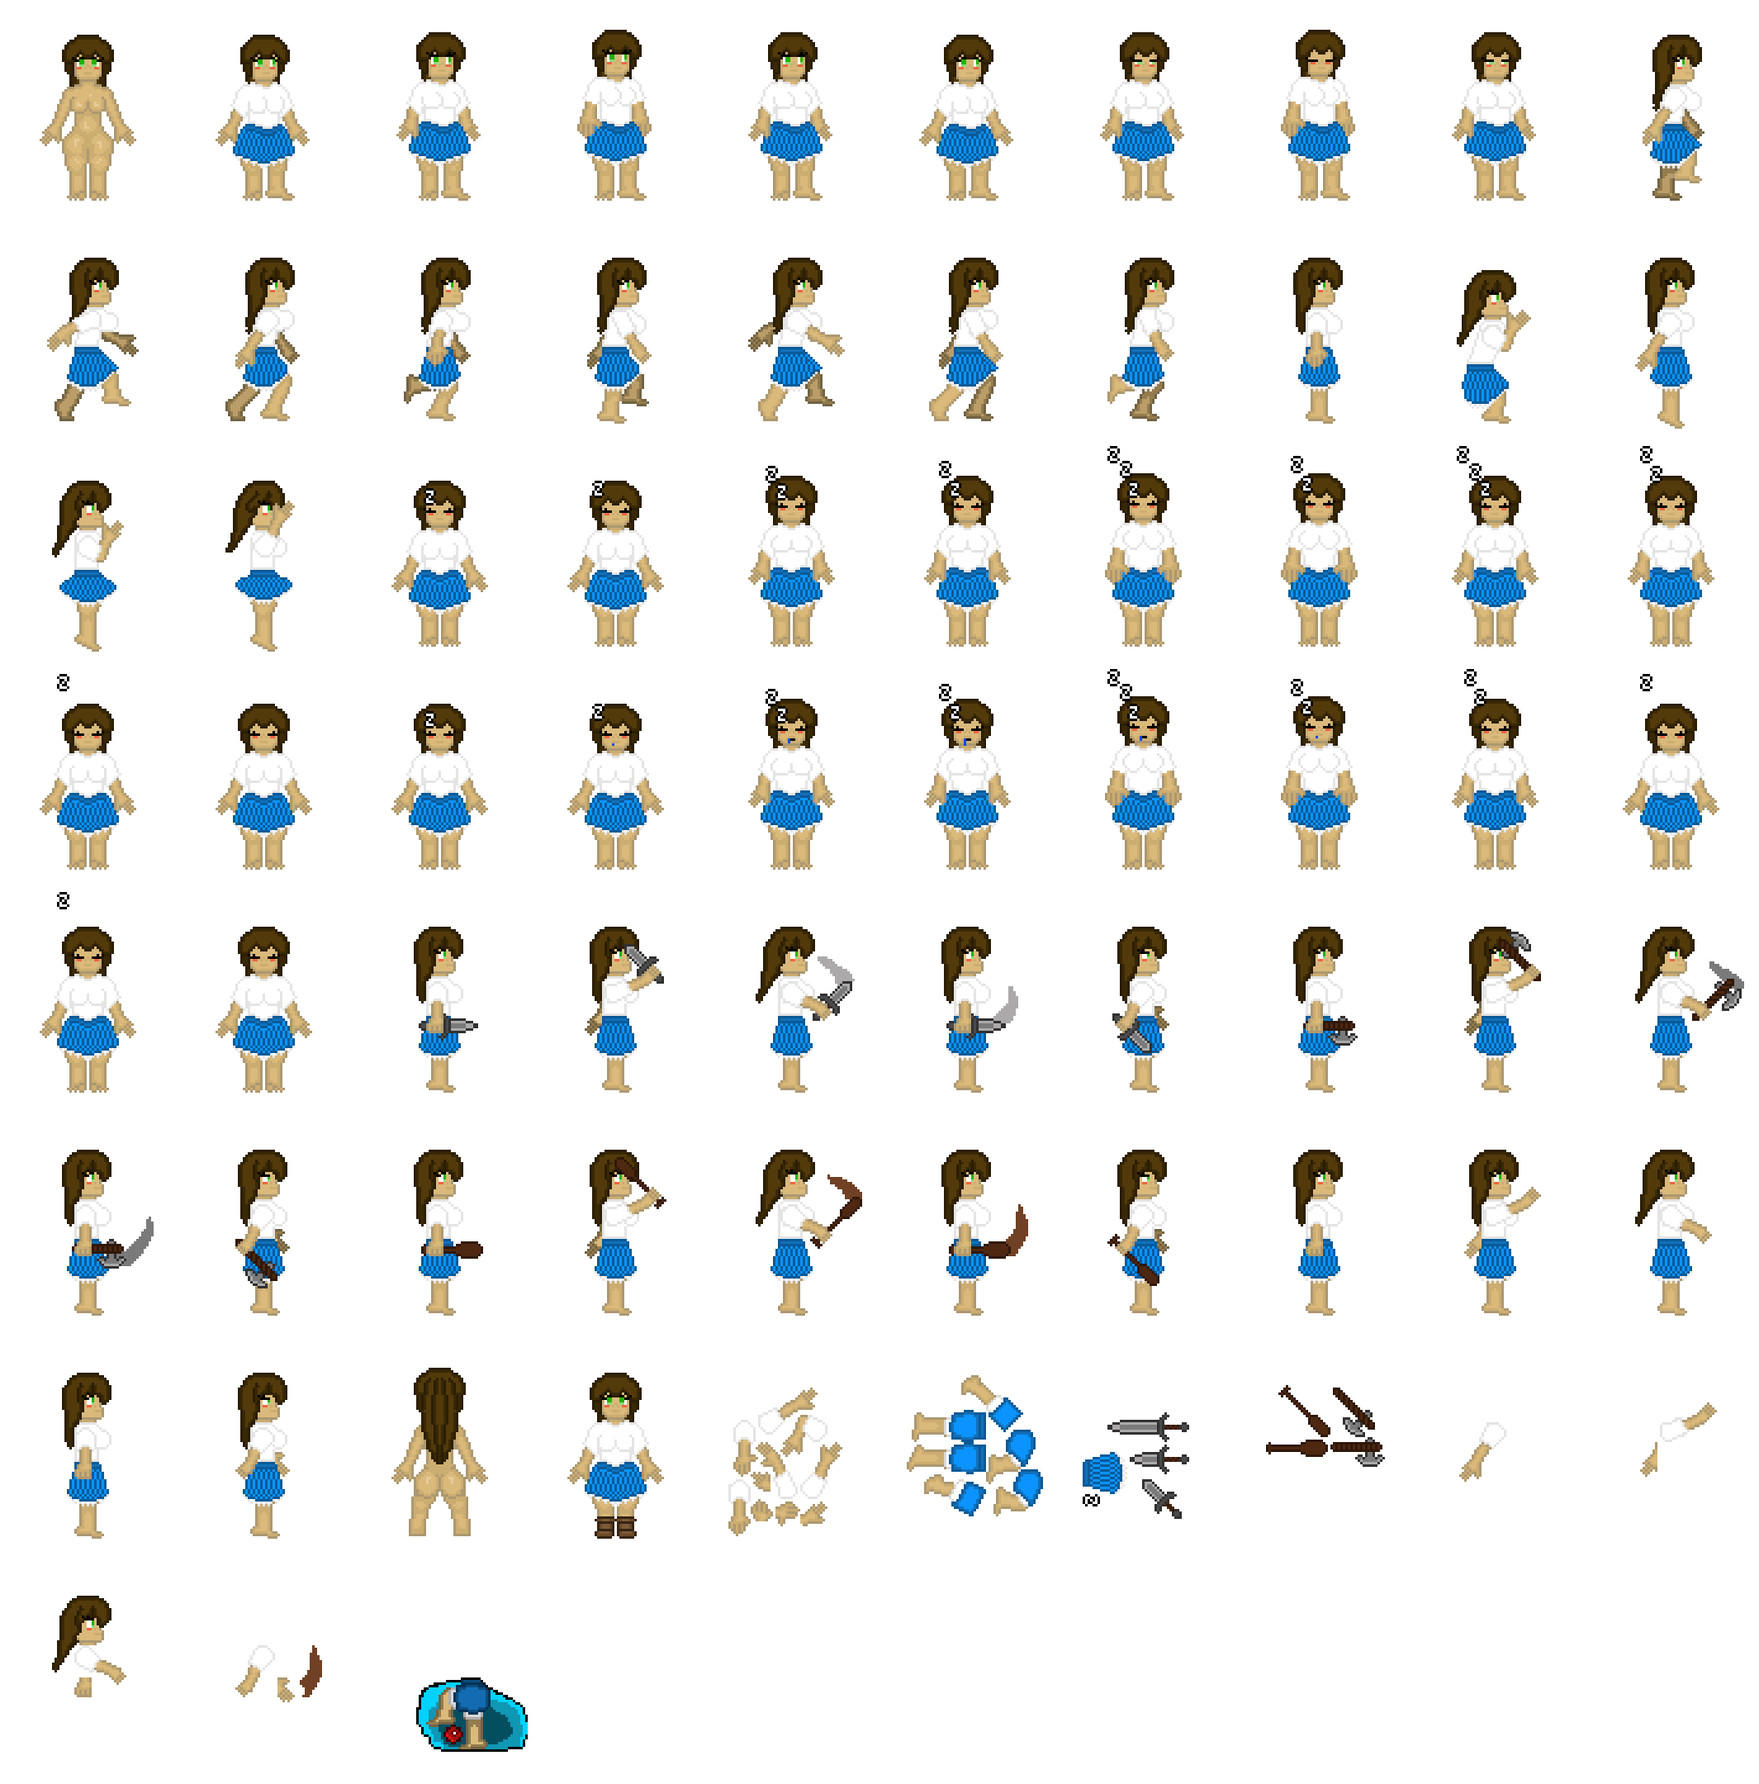
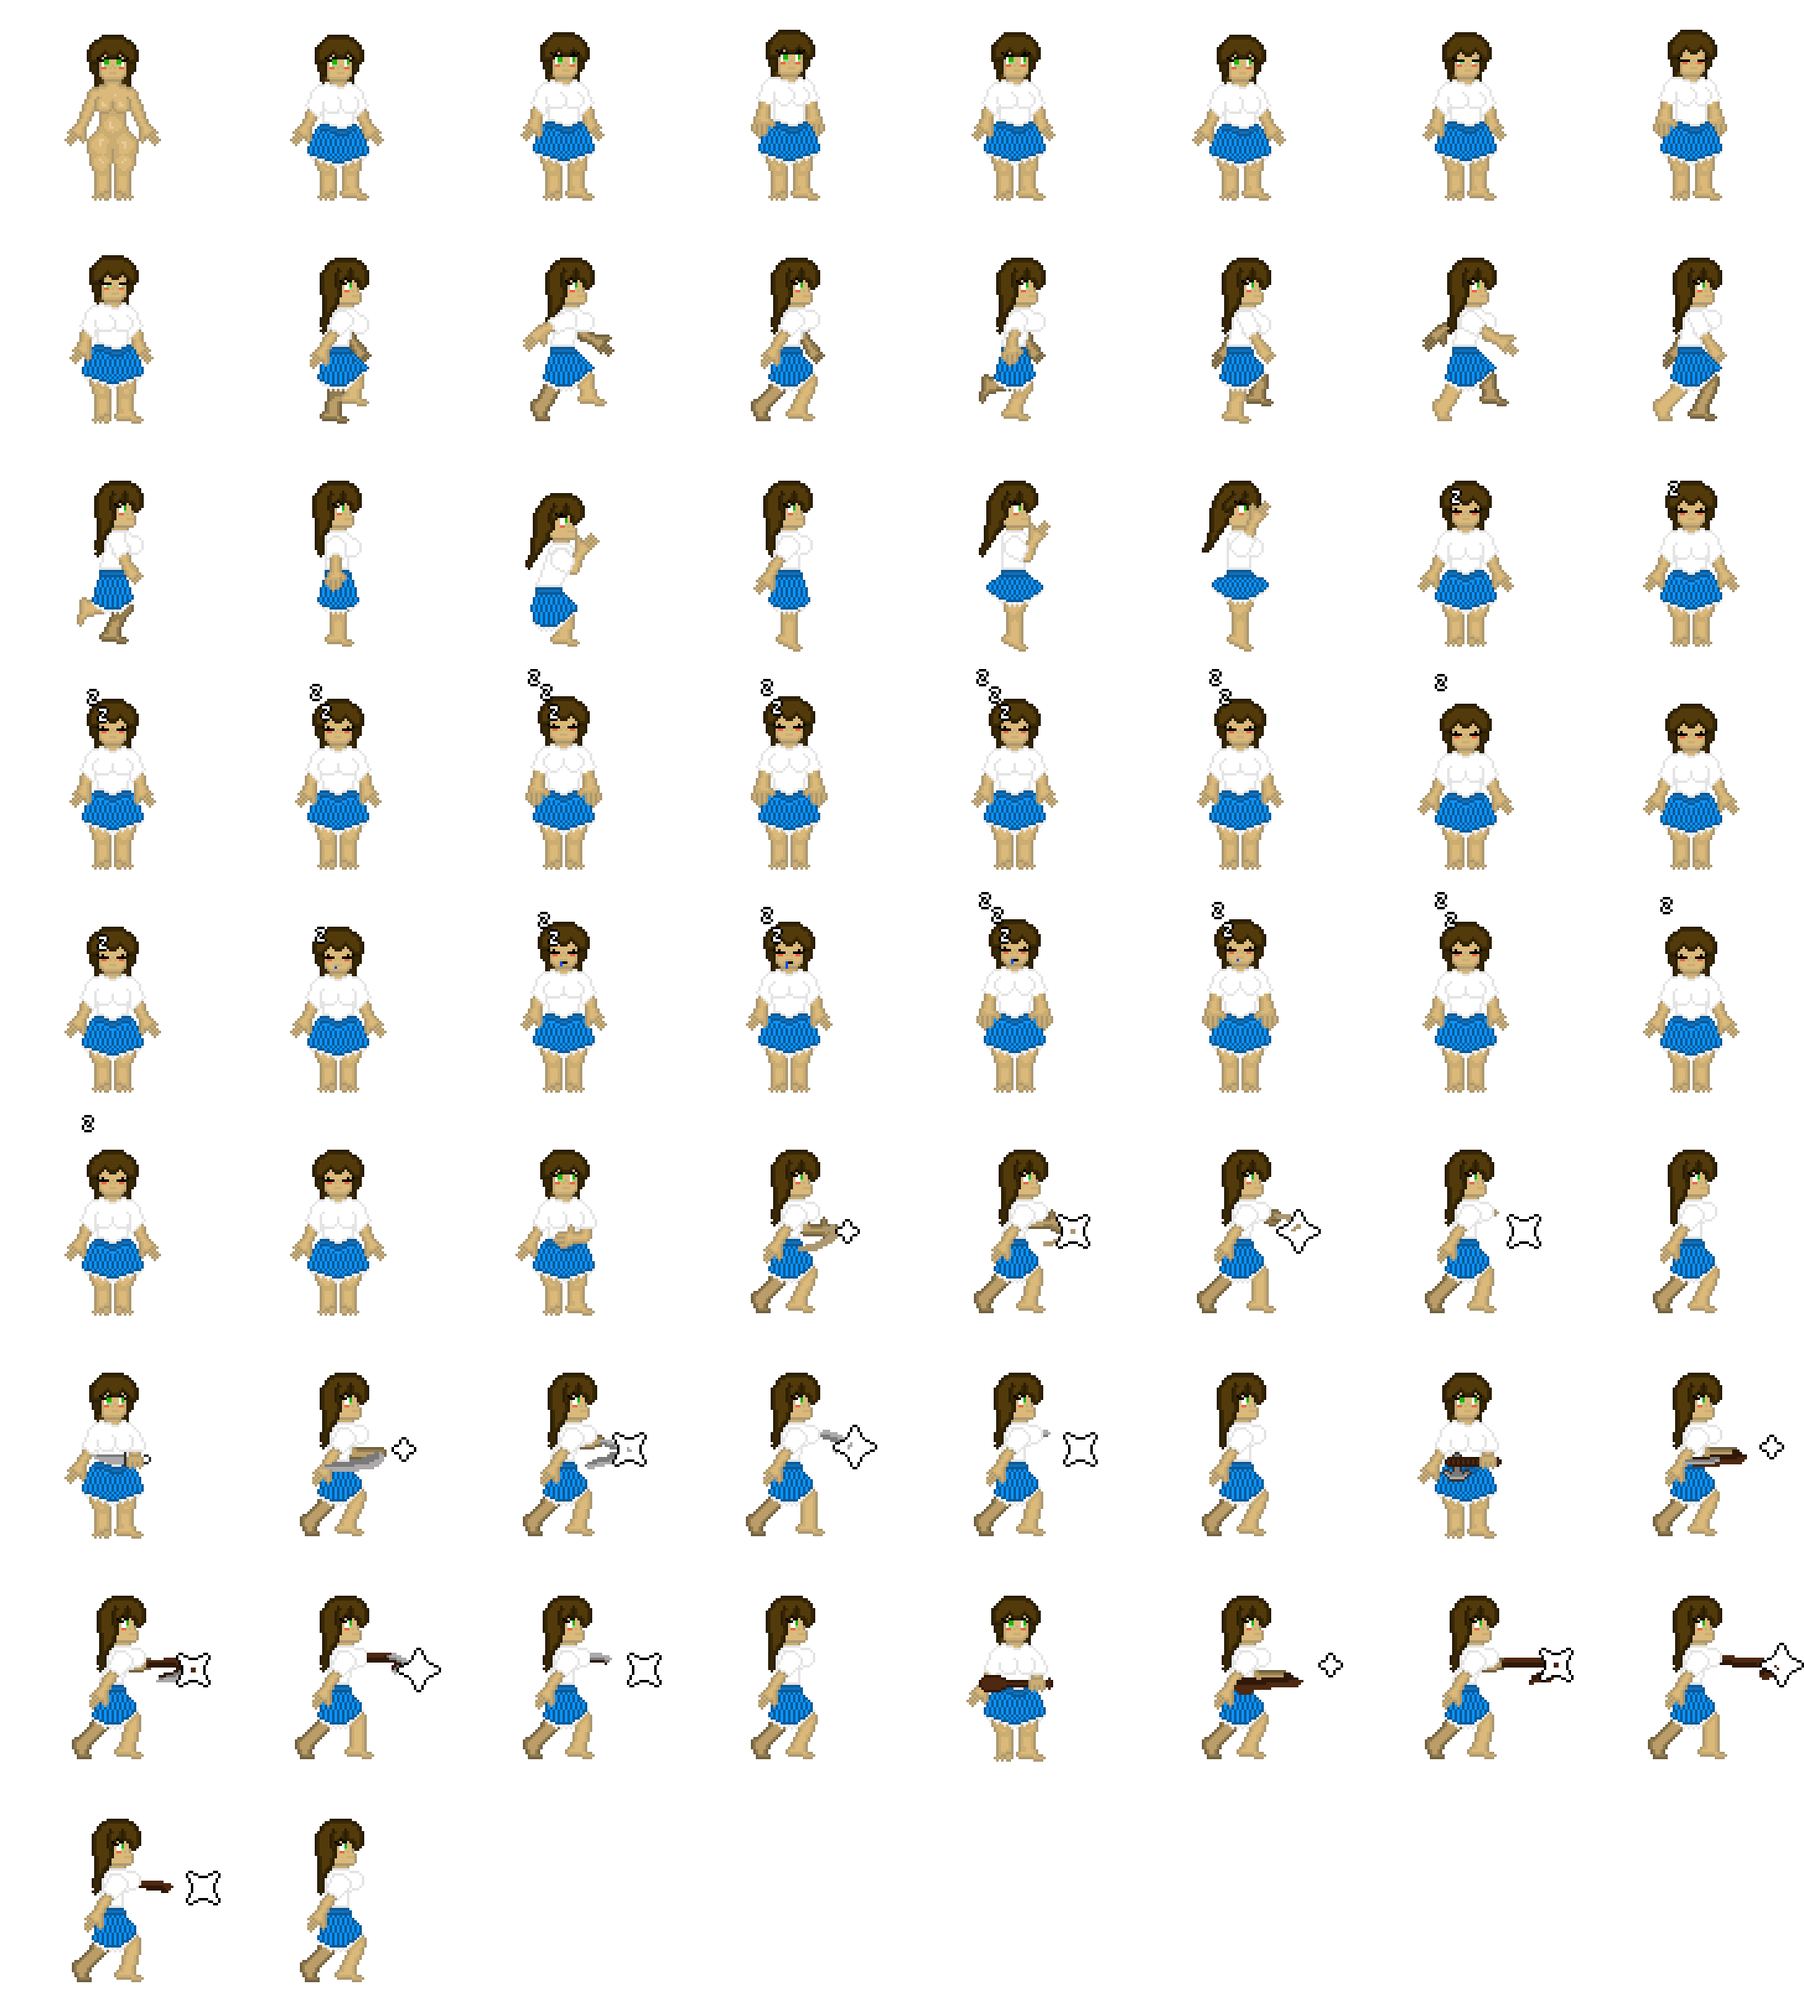
added new female attack animations

Changed region(s): [[0.4028, 0.0, 0.8676, 0.8995], [0.031, 0.0, 0.3718, 0.9926], [0.8986, 0.0, 1.0, 0.8995]]

diff --git a/scripts/playerScripts/player.js b/scripts/playerScripts/player.js
@@ -84,10 +84,10 @@ class player extends Phaser.Physics.Arcade.Sprite{
       this.anims.create({key: 'pJumpDown',frames: this.anims.generateFrameNames('femalePlayer', { start: 20, end: 21 }),frameRate: 10 ,repeat: 0});
       this.anims.create({key: 'pSleep',frames: this.anims.generateFrameNames('femalePlayer', { start: 22, end: 41 }),frameRate: 1.5,repeat: -1});
     
-      this.anims.create({key: 'pAttackKnife',frames: this.anims.generateFrameNames('femalePlayer', { start: 42, end: 46 }),frameRate: 12,repeat: 0});
-      this.anims.create({key: 'pAttackAxe',frames: this.anims.generateFrameNames('femalePlayer', { start: 47, end: 51 }),frameRate: 9,repeat: 0});
-      this.anims.create({key: 'pAttackOar',frames: this.anims.generateFrameNames('femalePlayer', { start: 52, end: 56 }),frameRate: 8,repeat: 0});
-      this.anims.create({key: 'pAttackUnarmed',frames: this.anims.generateFrameNames('femalePlayer', { start: 57, end: 61 }),frameRate: 12,repeat: 0});
+      this.anims.create({key: 'pAttackUnarmed',frames: this.anims.generateFrameNames('femalePlayer', { start: 42, end: 47 }),frameRate: 12,repeat: 0});
+      this.anims.create({key: 'pAttackKnife',frames: this.anims.generateFrameNames('femalePlayer', { start: 48, end: 53 }),frameRate: 12,repeat: 0});
+      this.anims.create({key: 'pAttackAxe',frames: this.anims.generateFrameNames('femalePlayer', { start: 54, end: 59 }),frameRate: 9,repeat: 0});
+      this.anims.create({key: 'pAttackOar',frames: this.anims.generateFrameNames('femalePlayer', { start: 60, end: 65 }),frameRate: 8,repeat: 0});
     
     }
   }

diff --git a/scripts/sceneScripts/defaultScene.js b/scripts/sceneScripts/defaultScene.js
@@ -10,7 +10,7 @@ class defaultScene extends allSceneFunctions {
       this.load.tilemapTiledJSON("gameovermap" , "assets/tiledMap/gameOverForest.json");
       
       this.load.spritesheet("malePlayer" , "assets/player/evan_master.png" , {frameWidth: 273 , frameHeight: 270 });
-      this.load.spritesheet("femalePlayer" , "assets/player/evelyn_master.png" , {frameWidth: 213 , frameHeight: 270 });
+      this.load.spritesheet("femalePlayer" , "assets/player/evelyn_master.png" , {frameWidth: 273 , frameHeight: 270 });
       this.load.image('hitbox', 'assets/gameObjects/hitbox.png');
 
       this.load.spritesheet('keyPrompts', 'assets/hudElements/KeyPrompts.png',{frameWidth: 96, frameHeight: 96 });

diff --git a/index.html b/index.html
@@ -120,7 +120,7 @@
           default: 'arcade',
           arcade: {
             // debug is excelent for testing velocity and hitboxes.
-            debug: true
+            debug: false
           }
         },
         scene: [
